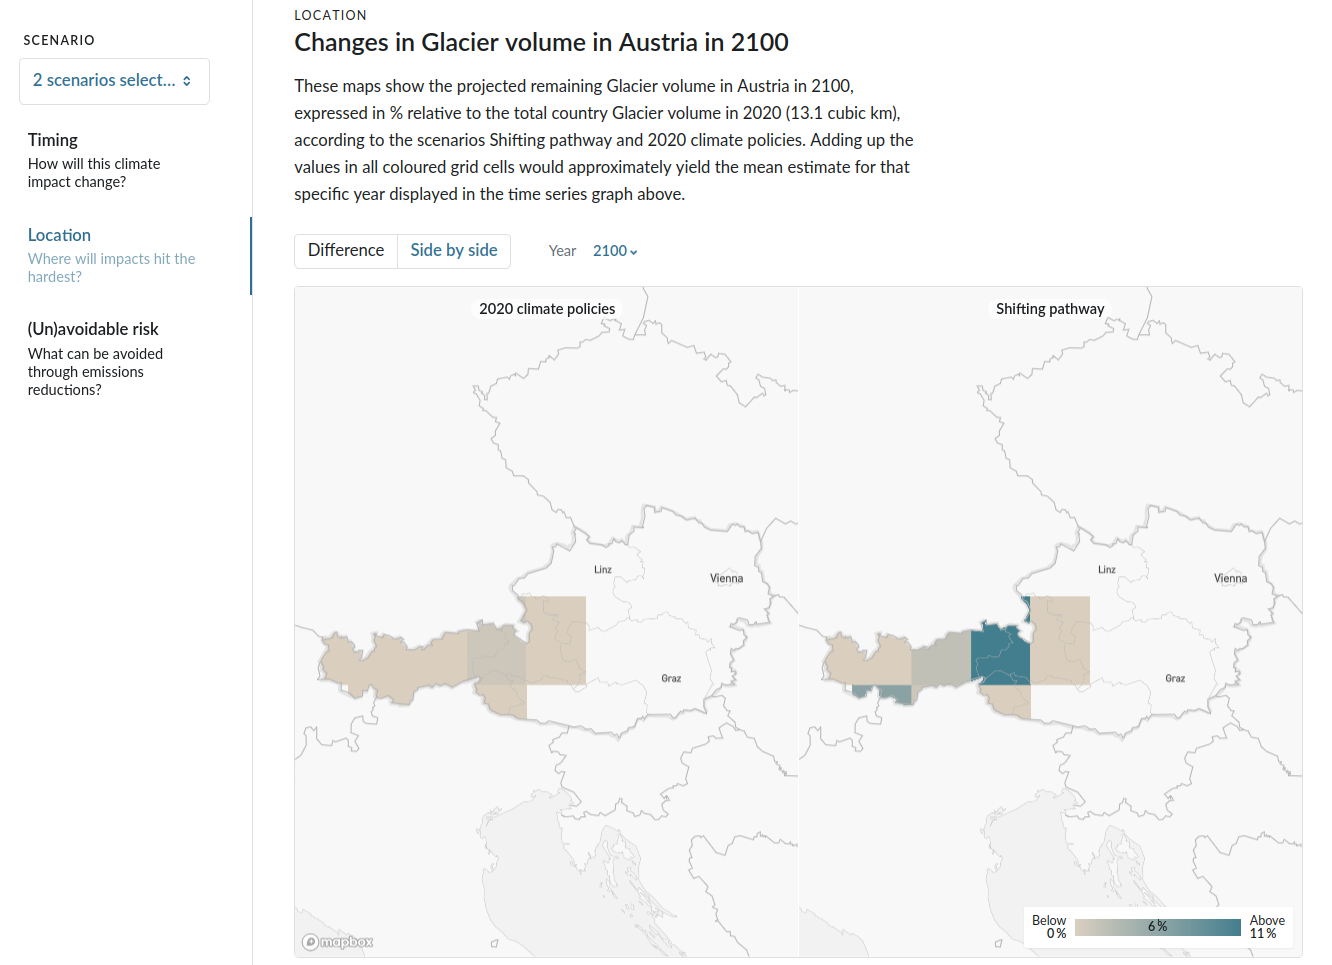
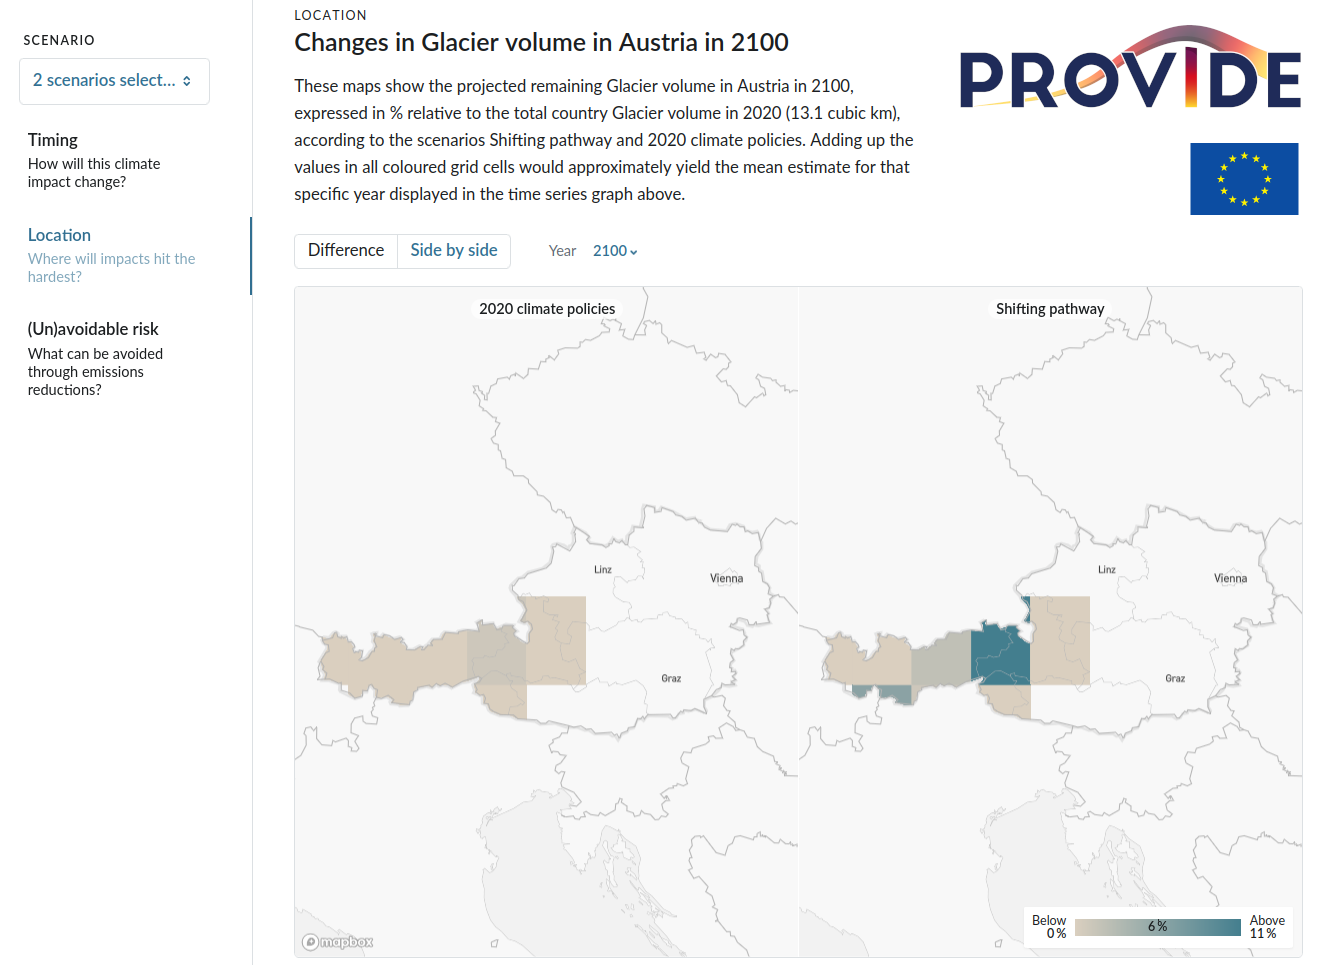
small updates and plausible (#197)

Changed region(s): [[0.708, 0.0311, 0.985, 0.2487]]

diff --git a/docs/conf.py b/docs/conf.py
@@ -200,7 +200,7 @@ html_css_files = ['custom.css']
 # Add any extra paths that contain custom files (such as robots.txt or
 # .htaccess) here, relative to this directory. These files are copied
 # directly to the root of the documentation.
-html_extra_path = ['gallery-app_en.html', 'gallery-app_de.html', 
+html_extra_path = ['gallery-app_en.html', 'gallery-app_de.html',
                     'alps_future-app_rounce_delta_T_en.html',
                     'alps_future-app_rounce_delta_T_de.html',
                     'global_future_glacier-app_rounce_delta_T_en.html',
@@ -343,6 +343,14 @@ texinfo_documents = [
 
 # If true, do not generate a @detailmenu in the "Top" node's menu.
 #texinfo_no_detailmenu = False
+
+# Analytics
+html_theme_options["analytics"] = {
+    # The domain you'd like to use for this analytics instance
+    "plausible_analytics_domain": "edu.oggm.org",
+    # The analytics script that is served by Plausible
+    "plausible_analytics_url": "https://plausible.oggm.org/js/script.js",
+}
 
 
 # Example configuration for intersphinx: refer to the Python standard library.

diff --git a/docs/provide_dashboard.rst b/docs/provide_dashboard.rst
@@ -7,9 +7,26 @@ Climate Risk Dashboard
     :width: 100%
     :target: https://climate-risk-dashboard.climateanalytics.org/
 
-The Climate Risk Dashboard (`climate-risk-dashboard.climateanalytics.org <https://climate-risk-dashboard.climateanalytics.org/>`_) is an online platform offering detailed insights into climate overshoot scenarios, their impacts, and reversibility, with sector-specific data (e.g., extreme events, biodiversity, sea level rise, glaciers) across global, national, and city levels, and is the main outcome of the `Horizon 2020 PROVIDE Project <https://www.provide-h2020.eu/>`_. Overshoot scenarios refer to pathways where temperature, greenhouse gas concentrations, or radiative forcing exceed a stabilization target (e.g., Paris Agreement thresholds) within a specific timeframe (e.g., before 2100) and then return to the target level by the end of that period, typically requiring the removal of greenhouse gases through natural or technological sinks.
+The PROVIDE Climate Risk Dashboard
+(`climate-risk-dashboard.climateanalytics.org <https://climate-risk-dashboard.climateanalytics.org/>`_)
+is an online platform that offers detailed insights into climate overshoot scenarios, their impacts,
+and their reversibility. It provides sector-specific data (e.g., extreme events, biodiversity, sea level rise, glaciers)
+at global, national, and city levels. This dashboard is the primary outcome of the
+`Horizon 2020 PROVIDE Project <https://www.provide-h2020.eu/>`_.
 
-Here, we provide instructions and examples focused specifically on glaciers. You will learn how to analyze temperature changes alongside glacier changes directly on the dashboard and how to download data for creating your own plots or conducting deeper analyses. If this is your first visit, a general tutorial video below will guide you on navigating the dashboard. In the following sections, after the introductory video, you’ll find examples on glacier changes, starting with simple ones and progressing to more complex analyses.
+Overshoot scenarios refer to pathways in which temperature, greenhouse gas concentrations,
+or radiative forcing exceed a stabilization target (e.g., the Paris Agreement thresholds)
+within a specific timeframe (e.g., before 2100) but return to the target level by the end of that period.
+Achieving this typically requires the removal of greenhouse gases through natural or technological sinks.
+
+Here, we provide instructions and examples specifically focused on glaciers.
+You will learn how to analyze temperature changes in relation to glacier changes
+directly on the dashboard, as well as how to download data for creating your own plots
+or conducting more in-depth analyses.
+
+If this is your first visit, a general tutorial video below will guide you through navigating the dashboard.
+In the sections that follow the introductory video, you'll find examples related to glacier changes,
+starting with simple analyses and gradually moving on to more advanced ones.
 
 .. _video_tutorial:
 
@@ -18,22 +35,28 @@ Video tutorial
 
 .. raw:: html
 
-  <iframe 
-    width="640" 
-    height="357" 
-    src="https://www.youtube.com/embed/5ucDMJ6wyaM" 
-    title="PROVIDE Climate Risk Dashboard tutorial on YouTube" 
-    frameborder="0" 
-    allow="accelerometer; autoplay; clipboard-write; encrypted-media; gyroscope; picture-in-picture; web-share" 
+  <iframe
+    width="640"
+    height="357"
+    src="https://www.youtube.com/embed/5ucDMJ6wyaM"
+    title="PROVIDE Climate Risk Dashboard tutorial on YouTube"
+    frameborder="0"
+    allow="accelerometer; autoplay; clipboard-write; encrypted-media; gyroscope; picture-in-picture; web-share"
     allowfullscreen>
   </iframe>
   <p><a href="https://www.youtube.com/watch?v=5ucDMJ6wyaM">PROVIDE Climate Risk Dashboard tutorial on YouTube</a></p>
 
 
-Navigation inside the Dashboard
+Navigation within the Dashboard
 -------------------------------
 
-This section explains how to find the data used in our exercises (mean temperature and glacier volume). The dashboard also includes many other indicators (e.g., urban climate, biodiversity), so feel free to explore beyond what we cover here. Let’s start by locating the data we’re focusing on. When you open the Climate Risk Dashboard (`climate-risk-dashboard.climateanalytics.org <https://climate-risk-dashboard.climateanalytics.org/>`_), first click on ``Explore`` in the top-right corner (as shown in the video tutorial above).
+This section explains how to locate the data used in our exercises, such as mean temperature and glacier volume.
+The dashboard also includes many other indicators (e.g., urban climate, biodiversity), so we encourage you
+to explore beyond the scope of this guide.
+
+To get started, let’s find the data we’re focusing on. Open the
+`Climate Risk Dashboard <https://climate-risk-dashboard.climateanalytics.org/>`_
+and click on ``Explore`` in the top-right corner, as demonstrated in the video tutorial above.
 
 .. _geography_and_indicator:
 
@@ -43,14 +66,18 @@ Geography and Indicator
 .. figure:: _static/provide_geography_indicator.png
     :width: 100%
 
-The first step is to choose a ``GEOGRAPHY``. For our exercises, we’ll focus on countries with glaciers, using Austria as an example. To see where glaciers are located worldwide, check out our :ref:`explorer` app.
+The first step is to choose a ``GEOGRAPHY``. For our exercises, we'll focus on countries with glaciers,
+using Austria as an example. To see where glaciers are located worldwide, check out our :ref:`explorer` app.
 
 Next, select the Indicator.
 
 - To find mean temperature: go to ``Indicator > Terrestrial Climate > Mean Temperature``.
 - To find glacier volume: go to ``Indicator > Glaciers > Glacier Volume``.
 
-When selecting an indicator, a short explanation will appear, and additional options may be available. For example, for mean temperature, you can choose the ``Season`` (default: ``Annual mean``) or defining a reference period in ``Changes compared to`` (default ``2011-2020 (present-day)``, for comparing to pre-industrial you should select ``1850-1900 (pre-industrial)`` here).
+When selecting an indicator, a short explanation will appear, and additional options may be
+available. For example, for mean temperature, you can choose the ``Season`` (default: ``Annual mean``)
+or defining a reference period in ``Changes compared to`` (default ``2011-2020 (present-day)``,
+for comparing to pre-industrial you should select ``1850-1900 (pre-industrial)`` here).
 
 Scenarios
 ~~~~~~~~~
@@ -58,7 +85,9 @@ Scenarios
 .. figure:: _static/provide_scenarios.png
     :width: 100%
 
-After selecting geography and indicators, choose a ``SCENARIO`` to analyze. Up to three scenarios can be selected at once for comparison. Hover over a scenario for more information. In the example above, we have selected ``Shifting pathway`` and ``2020 climate policies``.
+After selecting geography and indicators, choose a ``SCENARIO`` to analyze. Up to three scenarios
+can be selected at once for comparison. Hover over a scenario for more information.
+In the example above, we have selected ``Shifting pathway`` and ``2020 climate policies``.
 
 Plots
 ~~~~~
@@ -212,7 +241,7 @@ With the dashboard open in two tabs, compare the changes in mean temperature and
 **Questions to answer:**
 
 - What is the relationship between temperature and glacier volume? Why does this happen?
-- What patterns do you notice in overshoot scenarios? What could be an explanation for this? Change to another country and see whether the pattern changes! 
+- What patterns do you notice in overshoot scenarios? What could be an explanation for this? Change to another country and see whether the pattern changes!
 
 
 Authors
